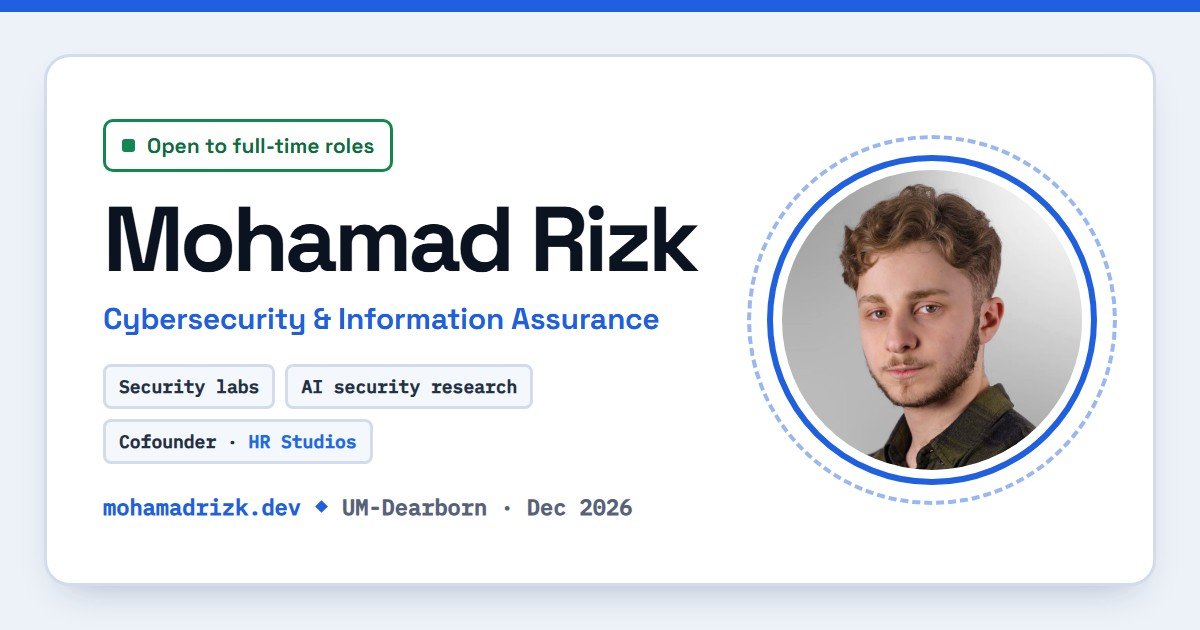
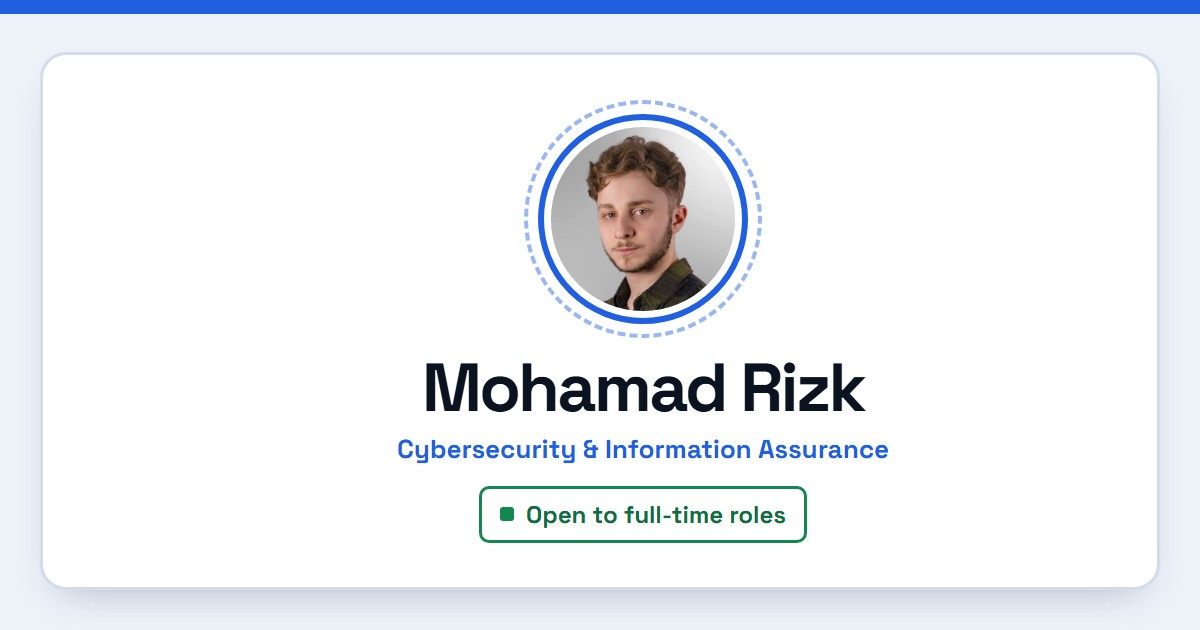
Link preview: centered card that survives WhatsApp's square crop
WhatsApp and iMessage crop previews to a square from the middle, which
cut the old card through the name and photo. The new card centers the
photo, name, role and the "Open to full-time roles" badge inside that
square. The description now leads with "Open to full-time roles", the
title matches, and the image URL is versioned so cached previews refresh.

diff --git a/index.html b/index.html
@@ -2,8 +2,8 @@
 <html><head>
 <meta charset="utf-8">
 <meta name="viewport" content="width=device-width, initial-scale=1">
-<title>Mohamad Rizk · Cybersecurity</title>
-<meta name="description" content="Cybersecurity &amp; Information Assurance student at UM-Dearborn (Dec 2026), open to full-time roles. Security labs, AI security research, and cofounder of HR Studios.">
+<title>Mohamad Rizk — Cybersecurity</title>
+<meta name="description" content="Open to full-time roles. Cybersecurity &amp; Information Assurance at UM-Dearborn and cofounder of HR Studios.">
 <link rel="canonical" href="https://mohamadrizk.dev/">
 <link rel="icon" href="favicon.svg" type="image/svg+xml">
 <meta name="theme-color" content="#1f5fe0">
@@ -11,17 +11,17 @@
 <meta property="og:type" content="website">
 <meta property="og:site_name" content="Mohamad Rizk">
 <meta property="og:url" content="https://mohamadrizk.dev/">
-<meta property="og:title" content="Mohamad Rizk · Cybersecurity">
-<meta property="og:description" content="Cybersecurity &amp; Information Assurance student at UM-Dearborn (Dec 2026), open to full-time roles. Security labs, AI security research, and cofounder of HR Studios.">
-<meta property="og:image" content="https://mohamadrizk.dev/og-image.jpg">
+<meta property="og:title" content="Mohamad Rizk — Cybersecurity">
+<meta property="og:description" content="Open to full-time roles. Cybersecurity &amp; Information Assurance at UM-Dearborn and cofounder of HR Studios.">
+<meta property="og:image" content="https://mohamadrizk.dev/og-image.jpg?v=2">
 <meta property="og:image:type" content="image/jpeg">
 <meta property="og:image:width" content="1200">
 <meta property="og:image:height" content="630">
 <meta property="og:image:alt" content="Mohamad Rizk, Cybersecurity and Information Assurance, open to full-time roles">
 <meta name="twitter:card" content="summary_large_image">
-<meta name="twitter:title" content="Mohamad Rizk · Cybersecurity">
-<meta name="twitter:description" content="Cybersecurity &amp; Information Assurance student at UM-Dearborn (Dec 2026), open to full-time roles. Security labs, AI security research, and cofounder of HR Studios.">
-<meta name="twitter:image" content="https://mohamadrizk.dev/og-image.jpg">
+<meta name="twitter:title" content="Mohamad Rizk — Cybersecurity">
+<meta name="twitter:description" content="Open to full-time roles. Cybersecurity &amp; Information Assurance at UM-Dearborn and cofounder of HR Studios.">
+<meta name="twitter:image" content="https://mohamadrizk.dev/og-image.jpg?v=2">
 <script>window.__resources = {"https://unpkg.com/react@18.3.1/umd/react.production.min.js": "assets/react.production.min.js", "https://unpkg.com/react-dom@18.3.1/umd/react-dom.production.min.js": "assets/react-dom.production.min.js"};</script>
 <script>(function(){var t='light';try{var s=localStorage.getItem('mr-portfolio-theme');if(s==='dark'||s==='light')t=s;}catch(e){}document.documentElement.setAttribute('data-theme',t);})();</script>
 <style>html{background:#f5f7fb}html[data-theme=dark]{background:#080b14}x-dc{display:none}</style>
